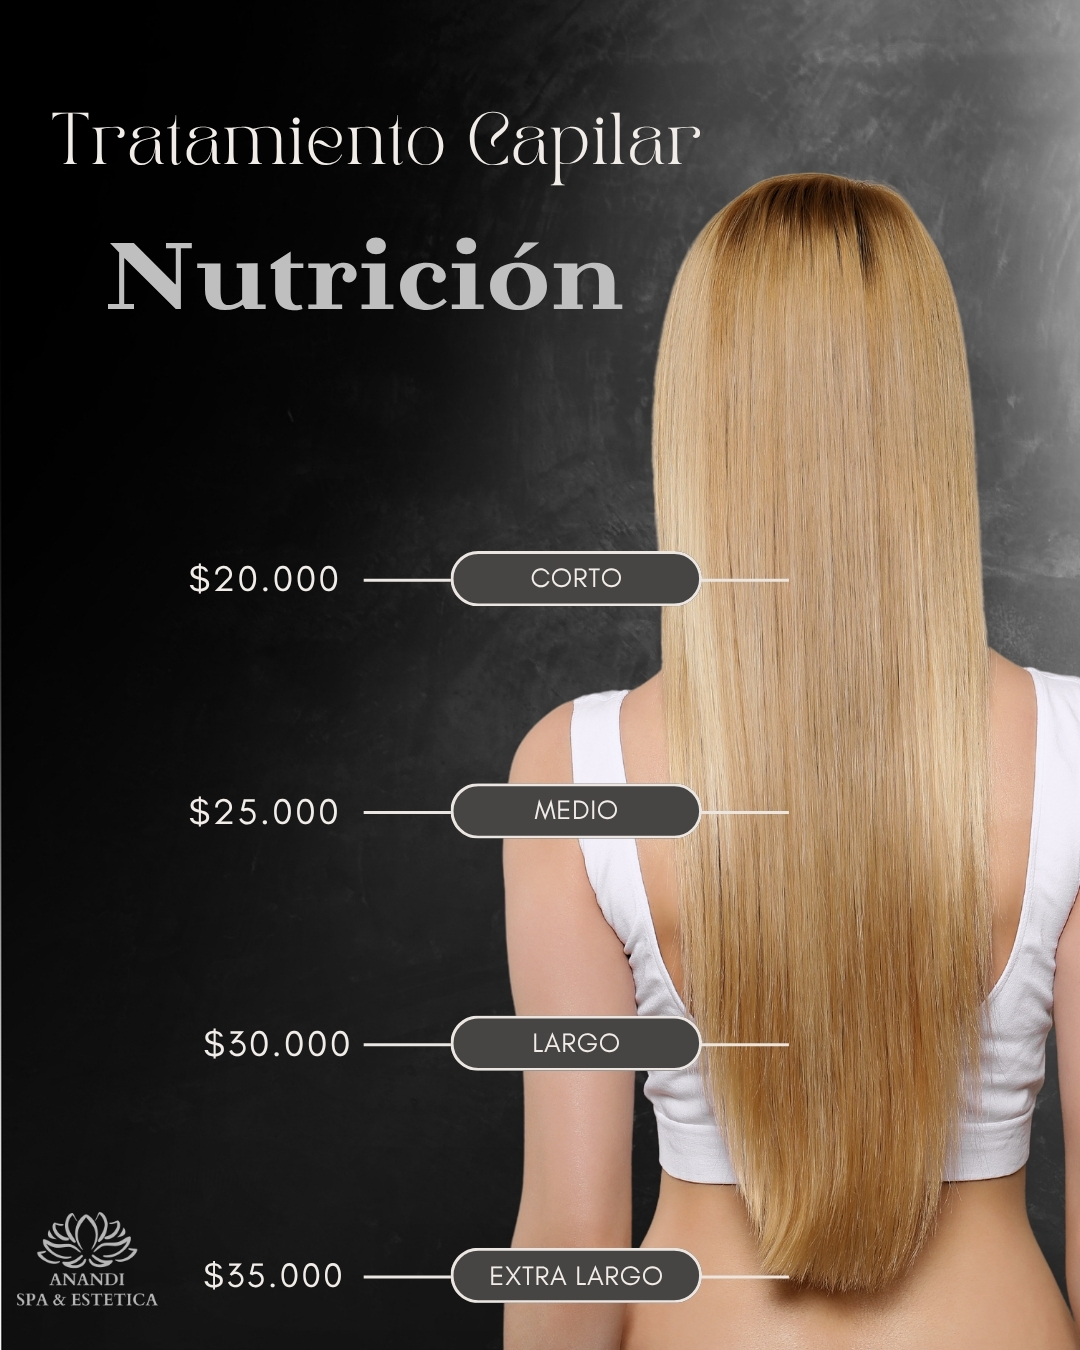
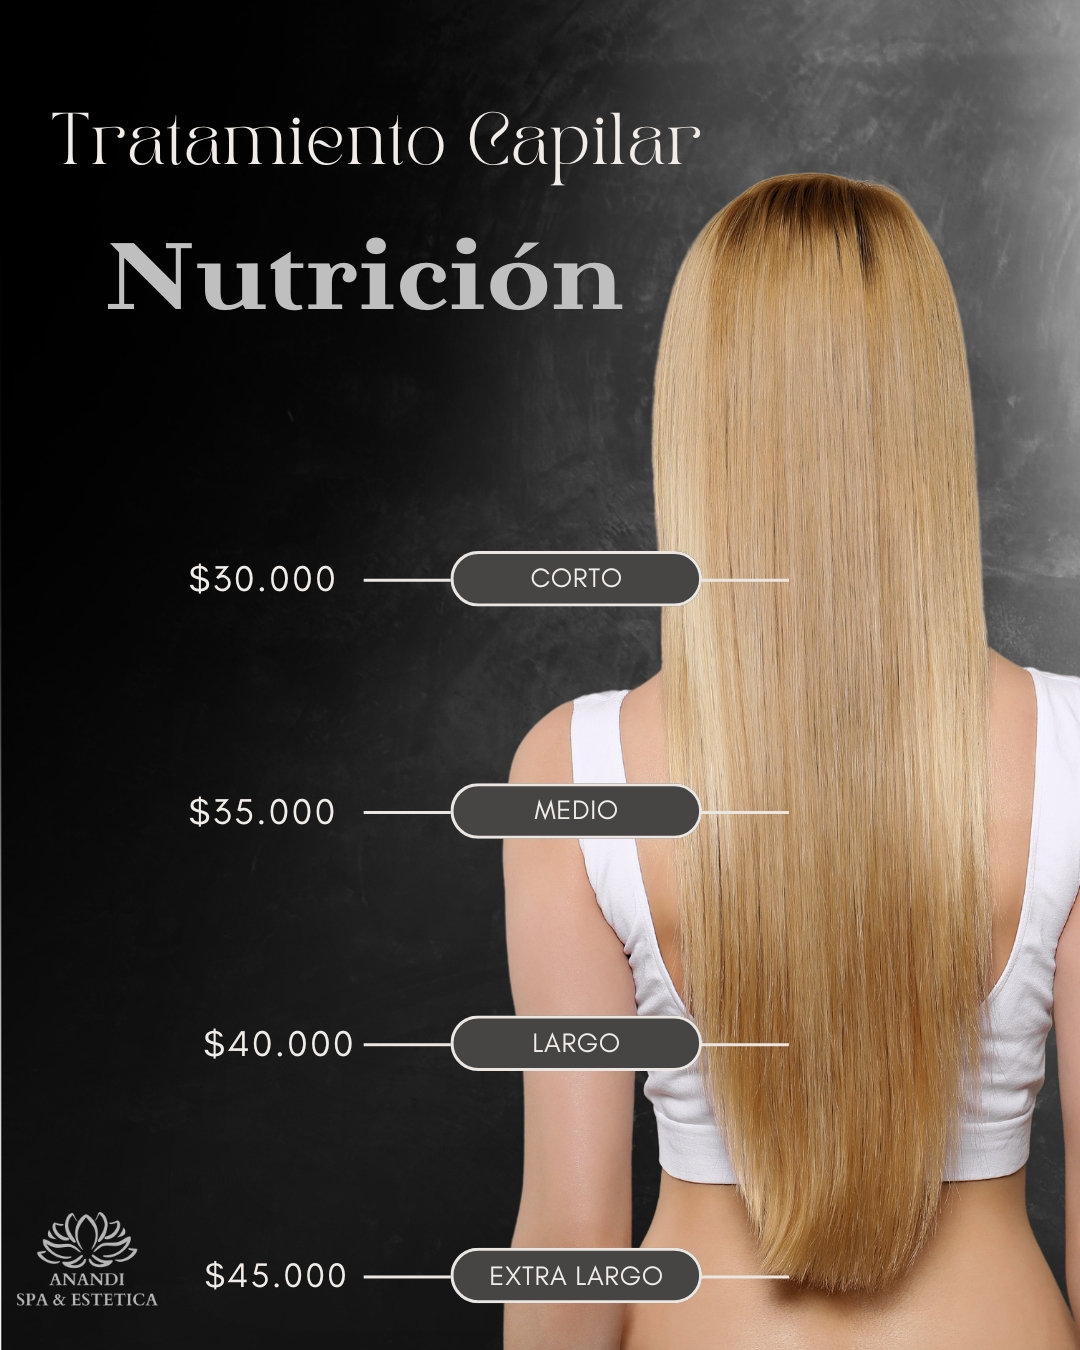
nuevos cambios de precio e info

diff --git a/catalogo.html b/catalogo.html
@@ -1077,8 +1077,8 @@
                             <p style="color: #666; line-height: 1.8;">
                                 • Para confirmar tu turno es necesario enviar una seña del 30% del valor total<br>
                                 • Las cancelaciones deben realizarse con 24hs de anticipación<br>
-                                • Se envía disponibilidad horaria para coordinar tu visita<br>
-                                • Horarios: Consultar disponibilidad<br>
+                                • Recordá que el turno cancelado con menos de 24hs de anterioridad, resultará en la pérdida de la seña abonada y/o el voucher de obsequio.<br>
+                                • Consultar disponibilidad horaria para coordinar tu visita<br>
                             </p>
                         </div>
                         <!-- <img src="imagenes/spa/calendario.svg" alt="icono calendario" class="info-card-img calendario"
@@ -1457,6 +1457,29 @@
                         </div>
                     </div>
 
+                    <!-- Masaje craneofacial -->
+                    <div class="promo-card">
+                        <img src="imagenes/estetica/promos/masaje-craneofacial.jpg" alt="Masaje Craneofacial"
+                            class="promo-image" loading="lazy">
+                        <div style="padding: 30px;">
+                            <h3 style="font-size: 1.5rem; margin-bottom: 15px; color: var(--dark);">Masaje Craneofacial
+                            </h3>
+                            <p style="color: #666; margin-bottom: 20px; line-height: 1.8;">
+                                ✓ Masaje craneo-facial <br>
+                                ✓ Yoga facial con almohadillas térmicas <br>
+                                ✓ 15' de reflexologia podal <br>
+                                ✓ Acompañado de infusión de lavanda
+                            </p>
+                            <div style="margin-bottom: 20px; text-align: center;">
+                                <span style="font-size: 1.8rem; font-weight: 700; color: var(--primary);">$50.000</span>
+                            </div>
+                            <a href="https://wa.me/5492615104019?text=Hola! Me interesa el masaje craneo-facial"
+                                class="whatsapp-btn" target="_blank" style="width: 100%; justify-content: center;">
+                                <i class="fa-brands fa-whatsapp"></i> Reservar
+                            </a>
+                        </div>
+                    </div>
+
                 </div>
             </div>
         </section>
@@ -1686,10 +1709,9 @@
                                 ✓ Pulido corporal manual
                             </p>
                             <div style="margin-bottom: 20px; text-align: center;">
-                                <span style="font-size: 1.2rem; color: var(--primary); font-weight: 600;">Consultar
-                                    precio</span>
+                                <span style="font-size: 1.8rem; font-weight: 700; color: var(--primary);">$45.000</span>
                             </div>
-                            <a href="https://wa.me/5492615104019?text=Hola! Me interesa consultar por el Pulido corporal"
+                            <a href="https://wa.me/5492615104019?text=Hola! Me interesa la sesión del Pulido corporal"
                                 class="whatsapp-btn" target="_blank" style="width: 100%; justify-content: center;">
                                 <i class="fa-brands fa-whatsapp"></i> Reservar
                             </a>
@@ -1720,19 +1742,19 @@
                             <div style="margin-bottom: 20px; font-size: 0.9rem;">
                                 <div style="display: flex; justify-content: space-between; margin-bottom: 8px;">
                                     <span>Corto</span>
-                                    <strong style="color: var(--primary);">$20.000</strong>
+                                    <strong style="color: var(--primary);">$30.000</strong>
                                 </div>
                                 <div style="display: flex; justify-content: space-between; margin-bottom: 8px;">
                                     <span>Medio</span>
-                                    <strong style="color: var(--primary);">$25.000</strong>
+                                    <strong style="color: var(--primary);">$35.000</strong>
                                 </div>
                                 <div style="display: flex; justify-content: space-between; margin-bottom: 8px;">
                                     <span>Largo</span>
-                                    <strong style="color: var(--primary);">$30.000</strong>
+                                    <strong style="color: var(--primary);">$40.000</strong>
                                 </div>
                                 <div style="display: flex; justify-content: space-between;">
                                     <span>Extralargo</span>
-                                    <strong style="color: var(--primary);">$35.000</strong>
+                                    <strong style="color: var(--primary);">$45.000</strong>
                                 </div>
                             </div>
                             <a href="https://wa.me/5492615104019?text=Hola! Me interesa el Tratamiento capilar de nutrición"
@@ -1755,19 +1777,19 @@
                             <div style="margin-bottom: 20px; font-size: 0.9rem;">
                                 <div style="display: flex; justify-content: space-between; margin-bottom: 8px;">
                                     <span>Corto</span>
-                                    <strong style="color: var(--primary);">$25.000</strong>
+                                    <strong style="color: var(--primary);">$35.000</strong>
                                 </div>
                                 <div style="display: flex; justify-content: space-between; margin-bottom: 8px;">
                                     <span>Medio</span>
-                                    <strong style="color: var(--primary);">$30.000</strong>
+                                    <strong style="color: var(--primary);">$40.000</strong>
                                 </div>
                                 <div style="display: flex; justify-content: space-between; margin-bottom: 8px;">
                                     <span>Largo</span>
-                                    <strong style="color: var(--primary);">$35.000</strong>
+                                    <strong style="color: var(--primary);">$45.000</strong>
                                 </div>
                                 <div style="display: flex; justify-content: space-between;">
                                     <span>Extralargo</span>
-                                    <strong style="color: var(--primary);">$40.000</strong>
+                                    <strong style="color: var(--primary);">$50.000</strong>
                                 </div>
                             </div>
                             <a href="https://wa.me/5492615104019?text=Hola! Me interesa el Tratamiento de alisado + nutrición"
@@ -1859,7 +1881,7 @@
                                 Dos sesiones de nutrición capilar
                             </p>
                             <div style="margin-bottom: 20px; text-align: center;">
-                                <span style="font-size: 1.8rem; font-weight: 700; color: var(--primary);">$45.000</span>
+                                <span style="font-size: 1.8rem; font-weight: 700; color: var(--primary);">$55.000</span>
                             </div>
                             <a href="https://wa.me/5492615104019?text=Hola! Me interesa el 2x1 en nutrición capilar"
                                 class="whatsapp-btn" target="_blank" style="width: 100%; justify-content: center;">
@@ -1879,7 +1901,7 @@
                                 Dos sesiones de alisado natural
                             </p>
                             <div style="margin-bottom: 20px; text-align: center;">
-                                <span style="font-size: 1.8rem; font-weight: 700; color: var(--primary);">$65.000</span>
+                                <span style="font-size: 1.8rem; font-weight: 700; color: var(--primary);">$75.000</span>
                             </div>
                             <a href="https://wa.me/5492615104019?text=Hola! Me interesa el 2x1 en alisado natural"
                                 class="whatsapp-btn" target="_blank" style="width: 100%; justify-content: center;">
@@ -1941,8 +1963,8 @@
                         <p style="color: #666; line-height: 1.8;">
                             • Para confirmar tu turno es necesario enviar una seña del 30% del valor total<br>
                             • Las cancelaciones deben realizarse con 24hs de anticipación<br>
-                            • Enviá disponibilidad horaria para coordinar tu visita<br>
-                            • Horarios: Consultar disponibilidad
+                            • Recordá que el turno cancelado con menos de 24hs de anterioridad, resultará en la pérdida de la seña abonada y/o el voucher de obsequio.<br>
+                            • Consultar disponibilidad horaria para coordinar tu visita<br>
                         </p>
                     </div>
 
